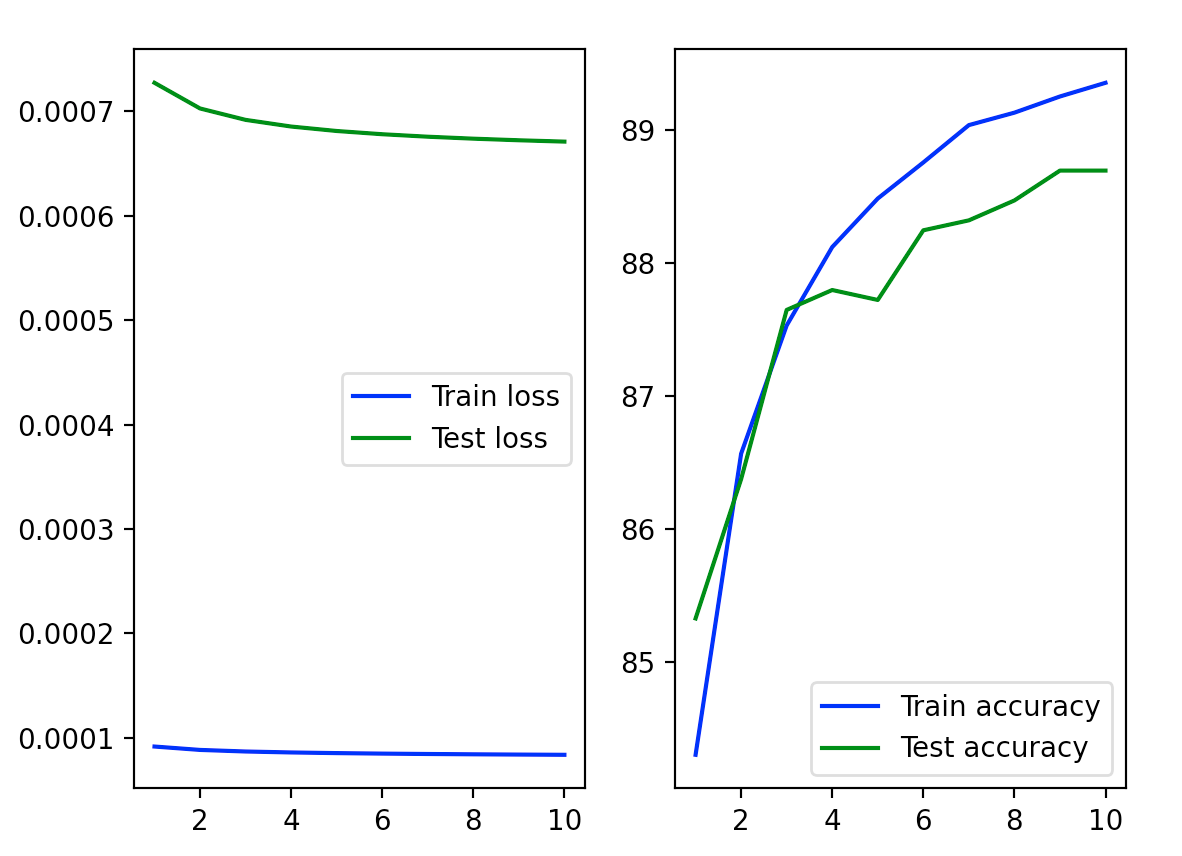
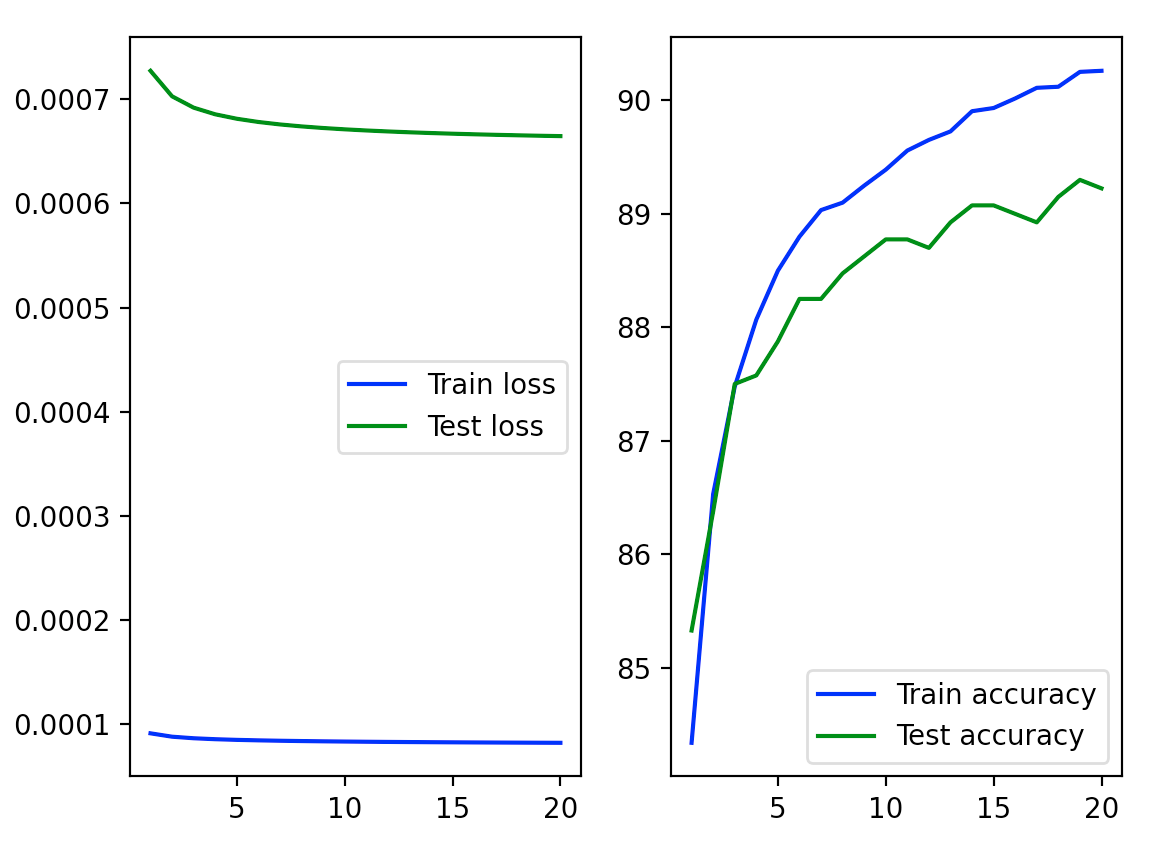
complete chapter 8

diff --git a/chapter8-2020/index.py b/chapter8-2020/index.py
@@ -76,6 +76,23 @@ def cate_to_number(cate):
     return the_map[cate]
 
 
+# Construct Network
+class Net2(nn.Module):
+    def __init__(self):
+        super(Net2, self).__init__()
+        self.l1 = nn.Linear(300, 10)
+        self.relu = nn.ReLU()
+        self.l2 = nn.Linear(10, 4)
+    def forward(self, x):
+        out = self.l1(x)
+        out = self.relu(out)
+        out = self.l2(out)
+        return out
+
+def cate_to_number(cate):
+    the_map = {'e':0, 'b':1, 't':2, 'm':3}
+    return the_map[cate]
+
 class Dataset(torch.utils.data.Dataset):
     def __init__(self, filename = 'train.feature.txt'):
         super(Dataset).__init__()
@@ -106,6 +123,16 @@ softmax = nn.Softmax(dim = 1)
 def init_dnn_components():
     global train_dataset, test_dataset, data_loader, criterion, optimizer, model
     model = Net()
+    train_dataset = Dataset('train.feature.txt')
+    # Prepare the test.feature.txt
+    test_dataset = Dataset('test.feature.txt')
+    data_loader = DataLoader(train_dataset, batch_size=4)
+    criterion = nn.CrossEntropyLoss()
+    optimizer = optim.SGD(model.parameters(), lr=0.01, momentum=0.9)
+
+def init_dnn_components_300_10_relu_4():
+    global train_dataset, test_dataset, data_loader, criterion, optimizer, model
+    model = Net2()
     train_dataset = Dataset('train.feature.txt')
     # Prepare the test.feature.txt
     test_dataset = Dataset('test.feature.txt')
@@ -159,6 +186,7 @@ def run_by_epochs(epochs):
         test_accuracy.append(get_accuracy(test_dataset))
         train_loss.append(get_loss(train_dataset))
         test_loss.append(get_loss(test_dataset))
+        print(f'Epoch {epoch + 1} over')
     # Draw them by plt
     return list(range(1, epochs + 1)), train_loss, train_accuracy, test_loss, test_accuracy
 

diff --git a/chapter8-2020/README.md b/chapter8-2020/README.md
@@ -1,10 +1,24 @@
-# Usage
+# 300-4 Network
 
 1. `python3 -i index.py`
 2. `prepare_feature_files()` only if have never call this.
 3. `init_dnn_components()`
-4. `plt_loss_and_accuracy(run_by_epochs(10))`
+4. `a,b,c,d,e = run_by_epochs(20)`
+4. `plt_loss_and_accuracy(a,b,c,d,e)`
 
 # Result
 
 ![](loss_and_acc.png)
+
+
+# 300-10-relu-4 Network
+
+1. `python3 -i index.py`
+2. `prepare_feature_files()` only if have never call this.
+3. `init_dnn_components_300_10_relu_4()`
+4. `a,b,c,d,e = run_by_epochs(20)`
+4. `plt_loss_and_accuracy(a,b,c,d,e)`
+
+# Result
+
+![](loss_and_acc2.png)
